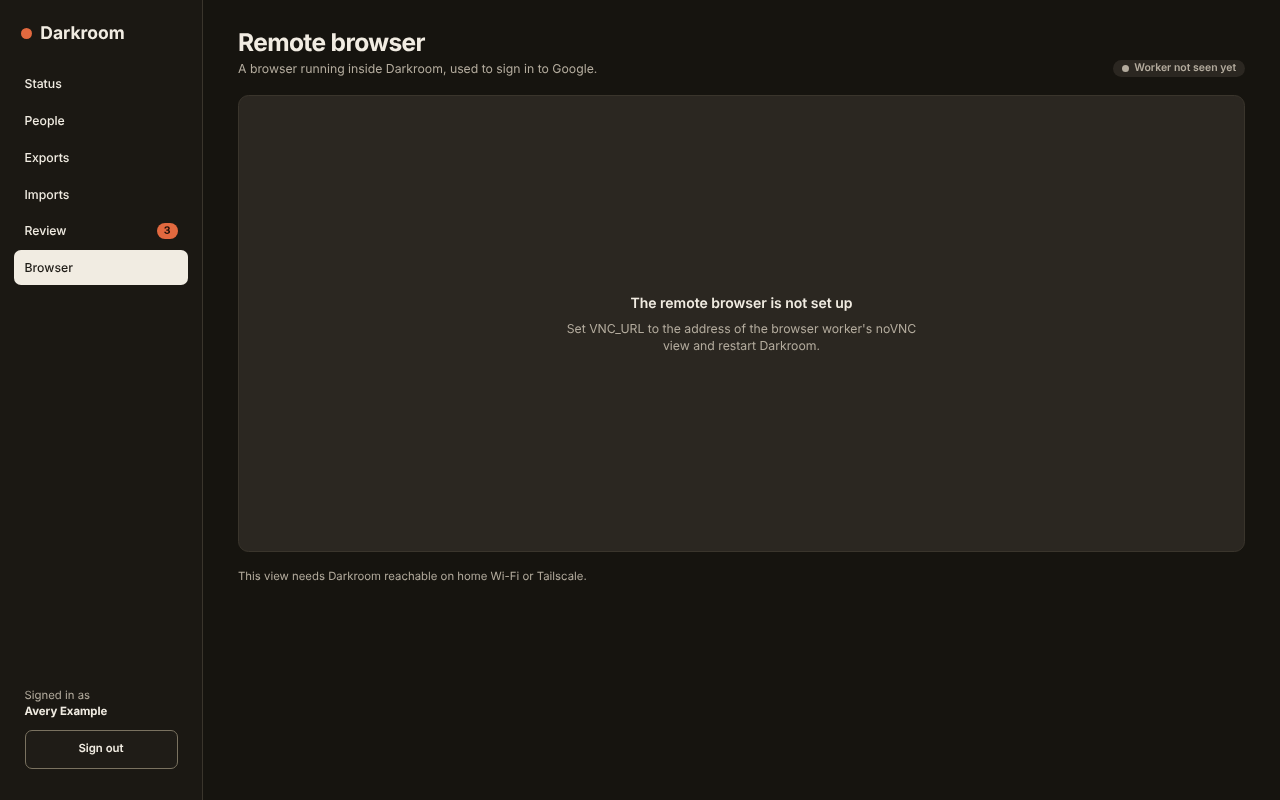
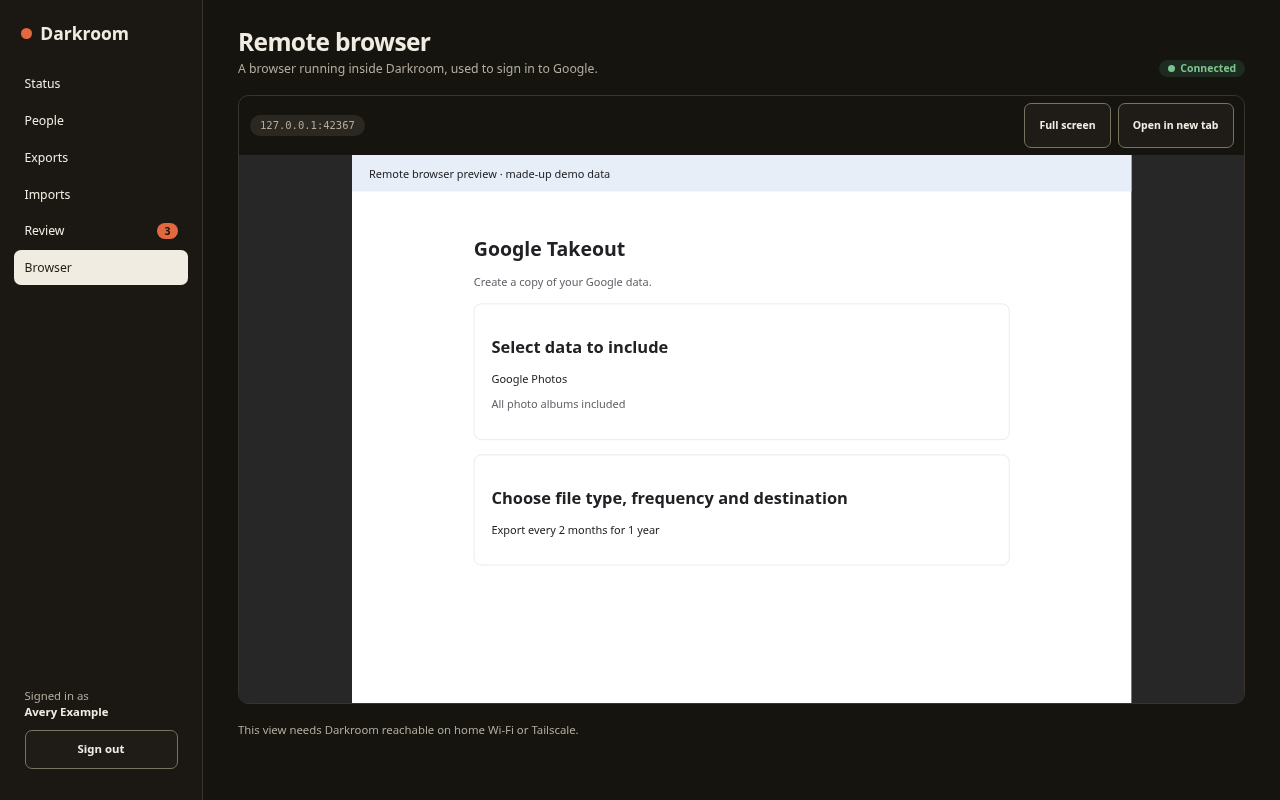
fix: make the remote browser readable and detect completed sign-in (#263)

diff --git a/frontend/src/pages/Browser.svelte.test.ts b/frontend/src/pages/Browser.svelte.test.ts
@@ -1,5 +1,5 @@
 // @vitest-environment jsdom
-import { render, screen, within } from "@testing-library/svelte";
+import { fireEvent, render, screen, within } from "@testing-library/svelte";
 import { afterEach, beforeEach, describe, expect, it, vi } from "vitest";
 import { familyAccount, joAccount, queuedConnect, reply, serve, waitingConnect } from "../test/server";
 import Browser from "./Browser.svelte";
@@ -9,6 +9,7 @@ beforeEach(() => {
   vi.setSystemTime(new Date(1_000_000));
 });
 afterEach(() => {
+  for (const name of ["fullscreenEnabled", "fullscreenElement", "exitFullscreen"]) Reflect.deleteProperty(document, name);
   vi.unstubAllGlobals();
   vi.useRealTimers();
 });
@@ -29,9 +30,52 @@ describe("the Remote browser page", () => {
     expect(await screen.findByText("Connected")).toBeInTheDocument();
     const frame = screen.getByTitle("Remote browser");
     expect(frame).toHaveAttribute("src", VNC);
+    expect(frame).toHaveAttribute("allowfullscreen");
+    const separate = screen.getByRole("link", { name: "Open in new tab" });
+    expect(separate).toHaveAttribute("href", VNC);
+    expect(separate).toHaveAttribute("target", "_blank");
+    expect(separate).toHaveAttribute("rel", "noopener noreferrer");
+    expect(screen.queryByRole("button", { name: "Full screen" })).not.toBeInTheDocument();
     expect(within(screen.getByRole("region", { name: "Remote browser view" })).getByText("browser.example:6080")).toBeInTheDocument();
     expect(screen.queryByRole("region", { name: "Sign-in task" })).not.toBeInTheDocument();
     expect(screen.getByText(/Tailscale/)).toBeInTheDocument();
+  });
+
+  it("expands the existing viewer and returns without reloading the browser session", async () => {
+    Object.defineProperty(document, "fullscreenEnabled", { configurable: true, value: true });
+    show({ "GET /api/browser/view": { vnc_url: VNC, worker_last_seen: 995 }, "GET /api/accounts": { accounts: [] }, "GET /api/browser/jobs": { jobs: [] } });
+    const button = await screen.findByRole("button", { name: "Full screen" });
+    const viewer = screen.getByRole("region", { name: "Remote browser view" });
+    const frame = screen.getByTitle("Remote browser");
+    const change = (element: HTMLElement | null) => {
+      Object.defineProperty(document, "fullscreenElement", { configurable: true, value: element });
+      document.dispatchEvent(new Event("fullscreenchange"));
+    };
+    const request = vi.fn(async () => change(viewer));
+    const exit = vi.fn(async () => change(null));
+    Object.defineProperty(viewer, "requestFullscreen", { configurable: true, value: request });
+    Object.defineProperty(document, "exitFullscreen", { configurable: true, value: exit });
+    await fireEvent.click(button);
+    expect(request).toHaveBeenCalledOnce();
+    const leave = await screen.findByRole("button", { name: "Exit full screen" });
+    expect(leave).toHaveAttribute("aria-pressed", "true");
+    expect(screen.getByTitle("Remote browser")).toBe(frame);
+    await fireEvent.click(leave);
+    expect(exit).toHaveBeenCalledOnce();
+    expect(await screen.findByRole("button", { name: "Full screen" })).toHaveAttribute("aria-pressed", "false");
+    expect(screen.getByTitle("Remote browser")).toBe(frame);
+  });
+
+  it("handles browser fullscreen rejection with a usable new-tab fallback", async () => {
+    Object.defineProperty(document, "fullscreenEnabled", { configurable: true, value: true });
+    show({ "GET /api/browser/view": { vnc_url: VNC, worker_last_seen: 995 }, "GET /api/accounts": { accounts: [] }, "GET /api/browser/jobs": { jobs: [] } });
+    const button = await screen.findByRole("button", { name: "Full screen" });
+    const viewer = screen.getByRole("region", { name: "Remote browser view" });
+    Object.defineProperty(viewer, "requestFullscreen", { configurable: true, value: vi.fn().mockRejectedValue(new Error("denied")) });
+    await fireEvent.click(button);
+    expect(await screen.findByRole("alert")).toHaveTextContent("Use Open in new tab");
+    expect(screen.getByRole("link", { name: "Open in new tab" })).toHaveAttribute("href", VNC);
+    expect(screen.getByTitle("Remote browser")).toHaveAttribute("src", VNC);
   });
 
   it("shows no sign-in task for a signed-out account while no job is waiting for it", async () => {
@@ -46,7 +90,27 @@ describe("the Remote browser page", () => {
     expect(within(task).getByText("Sign-in needed")).toBeInTheDocument();
     expect(within(task).getByText("Sign in to family.photos@example.com")).toBeInTheDocument();
     expect(within(task).getByText(/This account needs a Google sign-in\./)).toBeInTheDocument();
+    expect(within(task).getByText(/After Connect finishes, use Create schedule on the Exports page/)).toBeInTheDocument();
     expect(within(task).queryByRole("button")).not.toBeInTheDocument();
+  });
+
+  it("says an interrupted export job will resume after sign-in", async () => {
+    show({ "GET /api/browser/view": { vnc_url: VNC, worker_last_seen: 995 }, "GET /api/accounts": { accounts: [familyAccount] }, "GET /api/browser/jobs": { jobs: [{ ...waitingConnect, kind: "download" }] } });
+    const task = await screen.findByRole("region", { name: "Sign-in task" });
+    expect(within(task).getByText(/The waiting browser job then carries on/)).toBeInTheDocument();
+    expect(within(task).queryByText(/After Connect finishes/)).not.toBeInTheDocument();
+  });
+
+  it("marks keyboard focus inside the embedded browser and clears it on leaving", async () => {
+    show({ "GET /api/browser/view": { vnc_url: VNC, worker_last_seen: 995 }, "GET /api/accounts": { accounts: [] }, "GET /api/browser/jobs": { jobs: [] } });
+    await screen.findByText("Connected");
+    const frame = screen.getByTitle("Remote browser");
+    frame.focus();
+    await fireEvent(window, new Event("blur"));
+    await vi.waitFor(() => expect(frame).toHaveClass("viewer-focused"));
+    screen.getByRole("link", { name: "Open in new tab" }).focus();
+    await fireEvent(window, new Event("focus"));
+    await vi.waitFor(() => expect(frame).not.toHaveClass("viewer-focused"));
   });
 
   it("says Google asked to verify when the waiting job is a verification", async () => {

diff --git a/frontend/src/pages/Browser.svelte b/frontend/src/pages/Browser.svelte
@@ -1,5 +1,6 @@
 <script lang="ts">
   import { onMount } from "svelte";
+  import { act } from "$lib/act";
   import { apiCall } from "$lib/contract";
   import { nowSeconds } from "$lib/format";
   import { Loader } from "$lib/loader.svelte";
@@ -8,6 +9,12 @@
   import LoadFailed from "../components/LoadFailed.svelte";
 
   const REFRESH_MS = 10_000;
+  let viewer: HTMLElement | undefined = $state();
+  let frame: HTMLIFrameElement | undefined = $state();
+  let frameFocused = $state(false);
+  let fullscreen = $state(false);
+  let canFullscreen = $state(false);
+  let viewerError = $state("");
 
   const loader = new Loader(async () => {
     const [view, accounts, jobs] = await Promise.all([
@@ -19,10 +26,34 @@
   });
 
   onMount(() => {
+    canFullscreen = Boolean(document.fullscreenEnabled);
+    const changed = () => { fullscreen = document.fullscreenElement === viewer; };
+    const focusChanged = () => queueMicrotask(() => { frameFocused = Boolean(frame && document.activeElement === frame); });
+    document.addEventListener("fullscreenchange", changed);
+    document.addEventListener("focusin", focusChanged);
+    document.addEventListener("focusout", focusChanged);
+    window.addEventListener("focus", focusChanged);
+    window.addEventListener("blur", focusChanged);
     void loader.load();
     const timer = setInterval(() => void loader.poll(), REFRESH_MS);
-    return () => clearInterval(timer);
+    return () => {
+      clearInterval(timer);
+      document.removeEventListener("fullscreenchange", changed);
+      document.removeEventListener("focusin", focusChanged);
+      document.removeEventListener("focusout", focusChanged);
+      window.removeEventListener("focus", focusChanged);
+      window.removeEventListener("blur", focusChanged);
+    };
   });
+
+  async function toggleFullscreen(): Promise<void> {
+    if (!viewer) return;
+    const target = viewer;
+    viewerError = "";
+    await act(() => fullscreen ? document.exitFullscreen() : target.requestFullscreen(), {
+      onError: () => { viewerError = "Couldn't change full screen. Use Open in new tab to get a larger view."; },
+    });
+  }
 
   function host(address: string): string {
     return new URL(address).host;
@@ -49,7 +80,8 @@
     </div>
 
     {#each waiting as account (account.id)}
-      {@const reason = data.jobs.find((j) => j.account_id === account.id && j.status === "waiting_for_user")?.message}
+      {@const job = data.jobs.find((j) => j.account_id === account.id && j.status === "waiting_for_user")}
+      {@const reason = job?.message}
       <section class="flex flex-col gap-2.5 rounded-lg border border-accent bg-surface p-4 md:flex-row md:items-center md:justify-between md:gap-5 md:px-5" aria-label="Sign-in task">
         <div class="flex flex-col gap-1">
           <div class="flex flex-wrap items-center gap-2.5">
@@ -63,16 +95,30 @@
               {reason === "verify" ? "Google asked to verify this account." : "This account needs a Google sign-in."}
               Sign in in the window below as you normally would and finish any verification.
             {/if}
-            When you can see the Google Takeout page, Darkroom notices within a minute, keeps the session and carries on.
+            When you can see the Google Takeout page, Darkroom confirms the account within a minute and keeps the session.
+            {#if job?.kind === "connect"}
+              After Connect finishes, use Create schedule on the Exports page to set up exports.
+            {:else}
+              The waiting browser job then carries on.
+            {/if}
           </p>
         </div>
       </section>
     {/each}
 
-    <section class="flex flex-col overflow-hidden rounded-lg border border-line bg-raised" aria-label="Remote browser view">
+    <section bind:this={viewer} class="browser-view flex flex-col overflow-hidden rounded-lg border border-line bg-raised" aria-label="Remote browser view">
       {#if data.view.vnc_url}
-        <div class="bg-canvas px-3 py-2 text-xs text-ink-muted"><span class="rounded-full bg-raised px-3 py-1 font-mono text-ink-muted">{host(data.view.vnc_url)}</span></div>
-        <iframe title="Remote browser" src={data.view.vnc_url} class="h-90 w-full border-0 md:h-130"></iframe>
+        <div class="flex flex-wrap items-center justify-between gap-3 bg-canvas px-3 py-2 text-xs text-ink-muted">
+          <span class="min-w-0 break-all rounded-full bg-raised px-3 py-1 font-mono text-ink-muted">{host(data.view.vnc_url)}</span>
+          <div class="flex flex-wrap items-center gap-2">
+            {#if canFullscreen}
+              <button type="button" class="btn min-h-13" aria-pressed={fullscreen} onclick={toggleFullscreen}>{fullscreen ? "Exit full screen" : "Full screen"}</button>
+            {/if}
+            <a class="btn min-h-13" href={data.view.vnc_url} target="_blank" rel="noopener noreferrer">Open in new tab</a>
+          </div>
+        </div>
+        {#if viewerError}<p role="alert" class="px-3 py-2 text-danger">{viewerError}</p>{/if}
+        <iframe bind:this={frame} title="Remote browser" aria-label="Remote browser" src={data.view.vnc_url} allowfullscreen class="browser-frame w-full border-0" class:viewer-focused={frameFocused}></iframe>
       {:else}
         <div class="flex h-90 flex-col items-center justify-center gap-2 p-5 text-center md:h-130">
           <p class="text-md font-semibold">The remote browser is not set up</p>
@@ -83,3 +129,24 @@
     <p class="text-sm text-ink-muted">This view needs Darkroom reachable on home Wi-Fi or Tailscale.</p>
   {/if}
 </div>
+
+<style>
+  .browser-frame {
+    height: max(36rem, calc(100dvh - 18rem));
+  }
+  .browser-frame:focus, .browser-frame.viewer-focused {
+    outline: 3px solid var(--color-ink);
+    outline-offset: -3px;
+  }
+  .browser-view:fullscreen {
+    width: 100%;
+    height: 100%;
+    border: 0;
+    border-radius: 0;
+  }
+  .browser-view:fullscreen .browser-frame {
+    flex: 1;
+    min-height: 0;
+    height: auto;
+  }
+</style>

diff --git a/frontend/verify/browser-preview.html b/frontend/verify/browser-preview.html
@@ -1,0 +1,37 @@
+<!doctype html>
+<html lang="en">
+<head>
+  <meta charset="utf-8">
+  <title>Remote browser preview</title>
+  <style>
+    html, body { margin: 0; width: 100%; height: 100%; overflow: hidden; background: #272727; font: 18px system-ui, sans-serif; color: #202124; }
+    #desktop { position: absolute; width: 1280px; height: 900px; background: #fff; transform-origin: top left; }
+    header { padding: 18px 28px; background: #e8eef8; }
+    main { max-width: 880px; margin: 72px auto; }
+    h1 { font-size: 32px; }
+    section { padding: 28px; margin-top: 24px; border: 1px solid #dadce0; border-radius: 12px; }
+    .muted { color: #5f6368; }
+  </style>
+</head>
+<body>
+  <div id="desktop">
+    <header>Remote browser preview · made-up demo data</header>
+    <main>
+      <h1>Google Takeout</h1>
+      <p class="muted">Create a copy of your Google data.</p>
+      <section><h2>Select data to include</h2><p>Google Photos</p><p class="muted">All photo albums included</p></section>
+      <section><h2>Choose file type, frequency and destination</h2><p>Export every 2 months for 1 year</p></section>
+    </main>
+  </div>
+  <script>
+    const desktop = document.getElementById("desktop");
+    function fit() {
+      const scale = Math.min(innerWidth / 1280, innerHeight / 900);
+      desktop.style.transform = `scale(${scale})`;
+      desktop.style.left = `${(innerWidth - 1280 * scale) / 2}px`;
+    }
+    addEventListener("resize", fit);
+    fit();
+  </script>
+</body>
+</html>

diff --git a/darkroom_browser/pages/takeout.py b/darkroom_browser/pages/takeout.py
@@ -19,7 +19,7 @@ SPACES = re.compile(r"\s+")
 VERIFY_PHRASES = ("verify it's you", "verify its you", "confirm it's you", "confirm its you", "verify that it's you", "verify your identity",
                   "to help keep your account safe, google wants to make sure it's really you", "this device isn't recognized", "unusual activity")
 SIGN_IN_PHRASES = ("sign in to continue", "use your google account", "sign in with your google account", "choose an account", "to continue to google takeout")
-SIGN_IN_FORMS = ("type=\"email\"", "type='email'", "identifierid", "accounts.google.com/signin", "accounts.google.com/v3/signin", "accounts.google.com/accountchooser")
+SIGN_IN_ACTIONS = ("https://accounts.google.com/signin", "https://accounts.google.com/v3/signin", "https://accounts.google.com/accountchooser")
 SIGNED_IN_PHRASES = ("manage your exports", "create a new export", "your google data", "export progress", "select data to include", "download your data",
                      "exports available")
 
@@ -29,12 +29,28 @@ def visible_text(page: str) -> str:
     return SPACES.sub(" ", text).lower().replace("’", "'")
 
 
+class SignInFormReader(HTMLParser):
+    def __init__(self) -> None:
+        super().__init__(convert_charrefs=True)
+        self.found = False
+
+    def handle_starttag(self, tag: str, attrs: list[tuple[str, str | None]]) -> None:
+        attributes = {name: (value or "").lower() for name, value in attrs}
+        if tag == "input" and (attributes.get("type") == "email" or attributes.get("id") == "identifierid"):
+            self.found = True
+        if tag == "form" and attributes.get("action", "").startswith(SIGN_IN_ACTIONS):
+            self.found = True
+
+
 def classify(page: str) -> str:
     text = visible_text(page)
     lowered = page.lower().replace("’", "'")
     if any(phrase in text for phrase in VERIFY_PHRASES):
         return VERIFY_ITS_YOU
-    if any(phrase in text for phrase in SIGN_IN_PHRASES) or any(marker in lowered for marker in SIGN_IN_FORMS):
+    form = SignInFormReader()
+    form.feed(page)
+    form.close()
+    if any(phrase in text for phrase in SIGN_IN_PHRASES) or form.found:
         return SIGN_IN_NEEDED
     if "takeout" in lowered and any(phrase in text for phrase in SIGNED_IN_PHRASES):
         return SIGNED_IN

diff --git a/tests/browser/test_connect.py b/tests/browser/test_connect.py
@@ -32,6 +32,20 @@ class ConnectStateMachineTests(unittest.TestCase):
         self.assertEqual(reporter.events, [])
         self.assertEqual(clock.slept, [])
 
+    def test_connect_finishes_after_sign_in_when_takeout_contains_account_chooser_links(self):
+        page = SIGNED_IN.replace("</nav>", '<a href="https://accounts.google.com/AccountChooser?continue=https://takeout.google.com">Switch account</a></nav>')
+        ctx, clock, reporter = context_for(ScriptedBrowser([SIGN_IN_NEEDED, page]))
+        self.assertEqual(connect(ctx), {"session_state": "ok"})
+        self.assertEqual(reporter.kinds("waiting"), ["sign_in"])
+        self.assertEqual(reporter.kinds("progress"), ["signed in"])
+        self.assertEqual(clock.slept, [30.0])
+
+    def test_account_chooser_links_do_not_bypass_the_wrong_account_check(self):
+        page = OTHER_ACCOUNT.replace("</nav>", '<a href="https://accounts.google.com/AccountChooser">Switch account</a></nav>')
+        ctx, _, reporter = context_for(ScriptedBrowser([page, SIGNED_IN]))
+        self.assertEqual(connect(ctx), {"session_state": "ok"})
+        self.assertEqual(reporter.kinds("waiting"), ["wrong_account"])
+
     def test_verify_first_is_one_waiting_report_too(self):
         ctx, _, reporter = context_for(ScriptedBrowser([VERIFY, SIGN_IN_NEEDED, SIGNED_IN]))
         connect(ctx)

diff --git a/tests/browser/test_classify.py b/tests/browser/test_classify.py
@@ -48,6 +48,18 @@ class ClassifyTests(unittest.TestCase):
         self.assertEqual(takeout.classify(page), takeout.SIGNED_IN)
         self.assertEqual(takeout.visible_text("<p>A&amp;B</p>\n<p> c </p>"), " a&b c ")
 
+    def test_signed_in_takeout_ignores_sign_in_urls_in_scripts_and_links(self):
+        for address in ("https://accounts.google.com/signin", "https://accounts.google.com/v3/signin/identifier", "https://accounts.google.com/AccountChooser"):
+            with self.subTest(address=address):
+                page = SIGNED_IN.replace("</head>", f'<script>const accountChooser = "{address}"; const identifierId = null;</script></head>')
+                page = page.replace("</nav>", f'<a href="{address}">Switch account</a></nav>')
+                self.assertEqual(takeout.classify(page), takeout.SIGNED_IN)
+
+    def test_actual_sign_in_forms_still_win_over_takeout_return_links(self):
+        for form in ('<form action="https://accounts.google.com/v3/signin/identifier"></form>', '<input TYPE="email">', '<input id="identifierId">'):
+            with self.subTest(form=form):
+                self.assertEqual(takeout.classify(SIGNED_IN + form), takeout.SIGN_IN_NEEDED)
+
 
 if __name__ == "__main__":
     unittest.main()

diff --git a/docs/deploy/browser.md b/docs/deploy/browser.md
@@ -8,6 +8,10 @@ The `darkroom-browser` container is a stateless executor: `darkroom` owns the jo
 
 ## Google Chrome, and what it does and does not fix
 
+The Remote browser page gives the viewer the available window height. Use **Full screen** for the largest embedded view, or **Open in new tab** to use the viewer directly. Full-screen entry and exit keep the same embedded viewer and signed-in session. Browsers without full-screen support still offer the separate-tab link.
+
+**Connect** checks that Takeout is signed in to the expected Google account and saves that session; it does not create an export or a schedule. Once Connect finishes, use **Create schedule** on the Exports page. A download or schedule job waiting for sign-in resumes its own work after the account is confirmed. Account-switch links and sign-in URLs in Takeout's scripts do not count as a sign-in form; the worker still verifies the signed-in account's email before finishing Connect.
+
 Google can refuse a sign-in in the remote viewer with "This browser or app may not be secure". Playwright's defaults mark the browser as automated (the `--enable-automation` flag, `navigator.webdriver`) and its bundled Chromium is Chromium for Testing, not Google Chrome. The image installs Google Chrome stable at build time (`python -m playwright install --with-deps chrome`, the pinned Playwright's own installer, as root; Chrome for Linux is amd64 only, so on aarch64 the step is skipped and the worker keeps using the bundled Chromium) and `darkroom_browser/launch.py` starts it with `channel="chrome"`, without `--enable-automation` and with `--disable-blink-features=AutomationControlled`. Nothing else changes: no stealth plugin, no user-agent or fingerprint patch, and the worker still never types a password or a 2FA code (`selectors.TYPEABLE`); you sign in by hand in the viewer. The worker passes `chromium_sandbox=True` (Playwright's default is off, and then it adds `--no-sandbox` itself), so the browser's sandbox runs and depends on the user namespaces `seccomp.json` allows; `seccomp.json` allows namespace creation and the `chroot` call Chromium uses to isolate the sandbox; `cap_drop: [ALL]` stays in place. If Chrome does not start, the worker logs a `chrome_launch_failed` event (the error's type and a fixed reason code, never its raw output) to `docker logs darkroom-browser` and falls back to Chromium; look for that line when sign-in is still refused, since Chromium is the browser Google refuses. If Chromium also fails, a `chromium_launch_failed` event carries its reason, and the failed job shows a fixed troubleshooting message. A profile that Chrome has opened may not open cleanly in a later Chromium fallback; back up the profile before trying a fresh one.
 
 `BROWSER_CHANNEL` (default `chrome`) chooses the browser: `chromium` (or empty) uses the bundled Chromium. When Chrome is not in the image (aarch64, or the build skipped it) or fails to launch, the worker falls back to the bundled Chromium instead of failing the job.

diff --git a/.claude/skills/verify-darkroom/references/feature-map.md b/.claude/skills/verify-darkroom/references/feature-map.md
@@ -114,4 +114,14 @@ What a person can do in the web app, by page: how to reach it, how to drive it w
 - **Reach it:** the navigation's Browser, at `/browser`; control `tools/control goto browser`.
 - **Drive it:** `tools/control goto browser`, `tools/control snapshot --text`, then `click`/`type`/`press`; `tools/control viewport phone|desktop`; batch check `make verify PAGES="browser"`.
 - **What usually breaks:**
-  - The remote browser view needs a VNC address the demo doesn't have, so the page shows its not-set-up state.
+  - A plain demo visit has no VNC address and shows the not-set-up state. `make verify PAGES="browser"` and the `browser-fullscreen` flow use a synthetic viewer served from the session's own loopback address, labelled as made-up demo data. This checks viewer sizing and full-screen controls without opening Google or a real VNC server.
+
+### Flows on Browser
+
+#### `browser-fullscreen`
+
+- **Starts at:** `browser`.
+- **Widths:** phone, desktop, wide.
+- **Touches:** `button:has-text('Full screen')`, `button:has-text('Exit full screen')`.
+- **Expects to see:** `Remote browser`, `Exit full screen`, `Full screen`.
+- **Drive it:** `tools/control flow browser-fullscreen`; or `poetry run python tools/verify.py run --flow browser-fullscreen`.

diff --git a/.claude/skills/verify-darkroom/references/feature-gotchas.md b/.claude/skills/verify-darkroom/references/feature-gotchas.md
@@ -31,4 +31,4 @@ Hand-edited. `tools/user_feature_map.py` merges these into [feature-map.md](feat
 - The demo has one pending pair, the recorded one (IMG_0101); with the import (make verify, `start --with-import`) it has three, the other two being the likely re-encodes the import held back (IMG_0001(1) and IMG_0102(1)). Each pair is a library copy beside a slightly different held copy. Keep both, skip and undo change demo data; `reset` puts it back.
 
 ## browser
-- The remote browser view needs a VNC address the demo doesn't have, so the page shows its not-set-up state.
+- A plain demo visit has no VNC address and shows the not-set-up state. `make verify PAGES="browser"` and the `browser-fullscreen` flow use a synthetic viewer served from the session's own loopback address, labelled as made-up demo data. This checks viewer sizing and full-screen controls without opening Google or a real VNC server.
